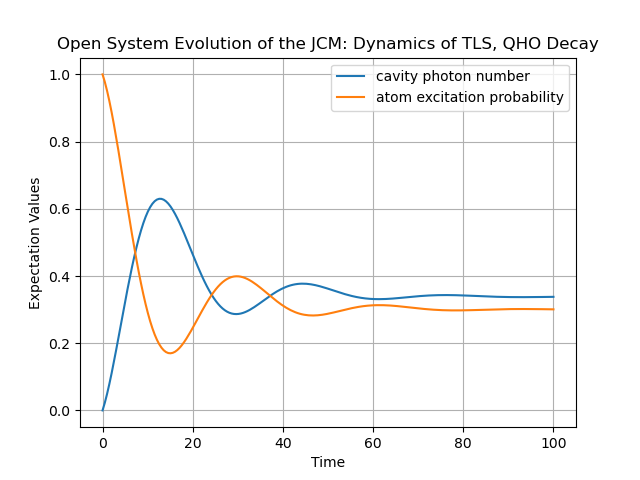
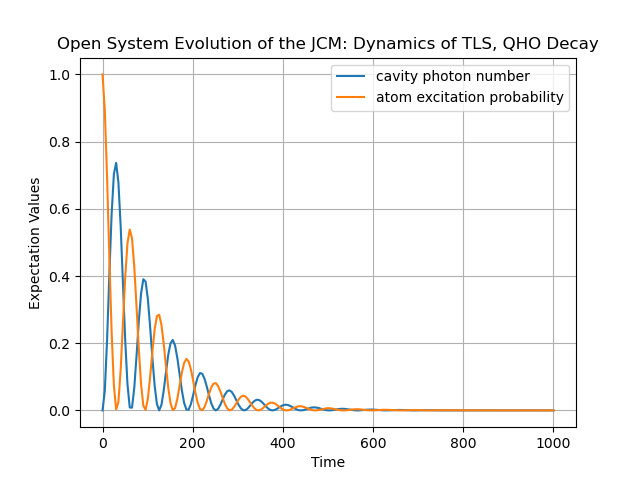
Ensures params for JCM are realistic and in the weak coupling regime.

diff --git a/Research Project/Code/Open_JCM_Sim.py b/Research Project/Code/Open_JCM_Sim.py
@@ -1,16 +1,15 @@
 from TLSQHOSimulator import TLSQHOSimulator
 import qutip as q
 import numpy as np
-from scipy.constants import k as K_B, h
 
 ############################## SETUP ######################################
 
-tlist = np.linspace(0.0, 100.0, 200)
+tlist = np.linspace(0.0, 1000.0, 200)
 
 # constants
-w = 1.0  # natural units, w = 1, hbar =1, kb = 1, GHz freq
-g = 0.1
-N = 2
+w = 1.0  # natural units, w = 1, hbar =1
+g = 0.05 # weak regime, g < gamma, gamma_th AND g << w (zeta = 0.01, C = 1)
+N = 30
 
 # Bases
 basis_atom_e = q.basis(2, 0)
@@ -32,13 +31,10 @@ psi0 = q.tensor(basis_atom_e, basis_qho_0)
 ########################## OPEN SIM SETUP #################################
 
 # Constants
-gamma = 0.2
-gamma_th = 0.01
-T_K = 1  # T in Kelvin, gives clear picture of decay dynamics
-T = (K_B * T_K) / (
-    h * 1e9
-)  # T in natural units, using (K_b/ h * freq) as a conversion factor
-n_omega = 1 / (np.exp(w / T) - 1)
+gamma = 0.1
+gamma_th = 0.1
+kbT = 0.001 # meV
+n_omega = 1 / (np.exp(w / kbT) - 1) # low temp regime so n_omega -> 0, optical/IR regime 
 
 # Operators
 e_ops = [adag * a, s_raise * s_lower]
@@ -94,12 +90,12 @@ sim_open_qho.plot(
     expect_open_qho,
     "Open System Evolution of the JCM: Dynamics of QHO Photon Loss",
     "Expectation Values",
-    "OQS_QHO_Neg",
+    "OQS_QHO_loss",
     "JCM",
     ["cavity photon number", "atom excitation probability"],
 )
 
-sim_open_tls.plot(
+sim_open_qho.plot(
     neg_qho,
     "Open System Evolution of the JCM: Negativity with QHO Photon Loss",
     "Negativity",
